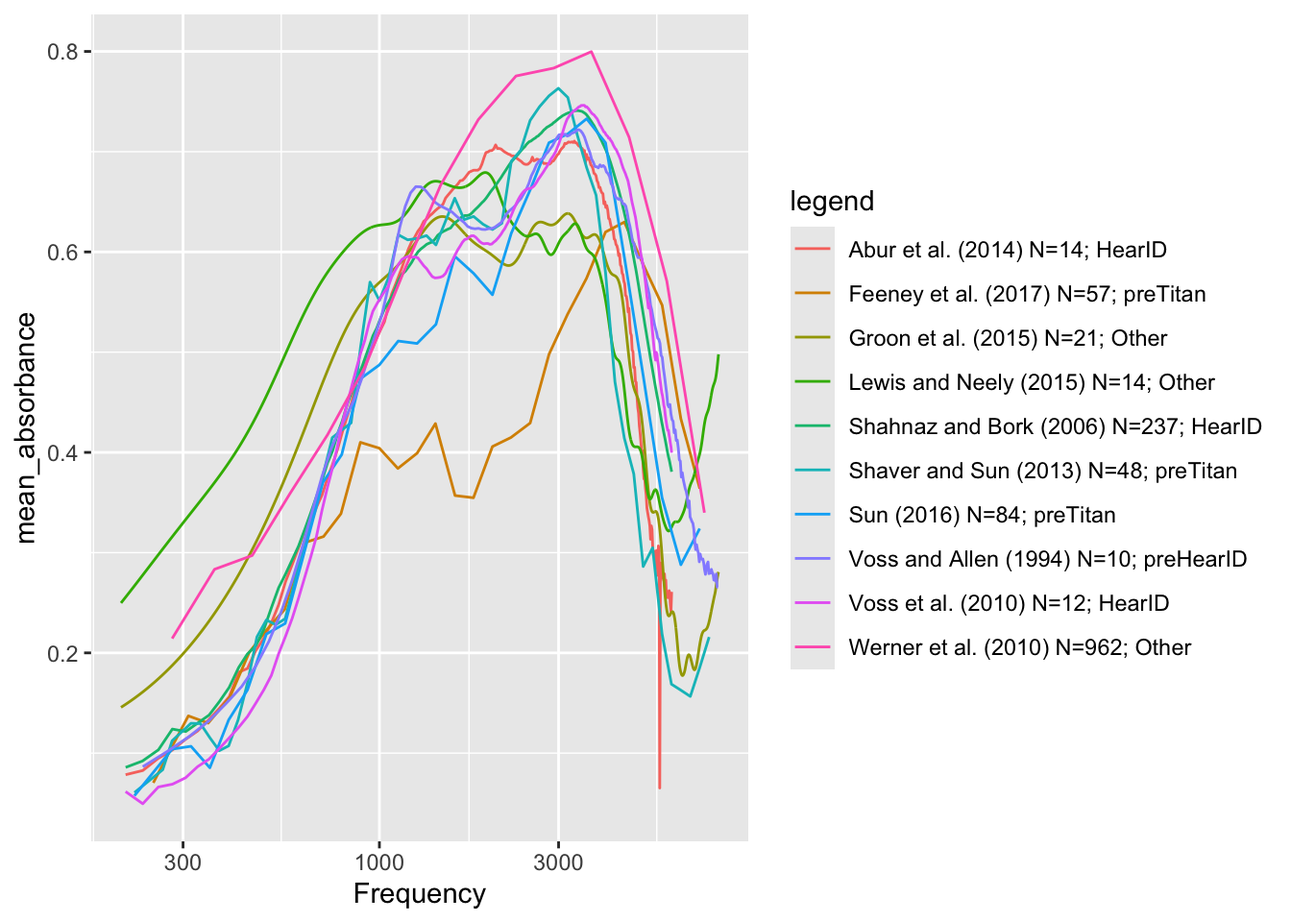
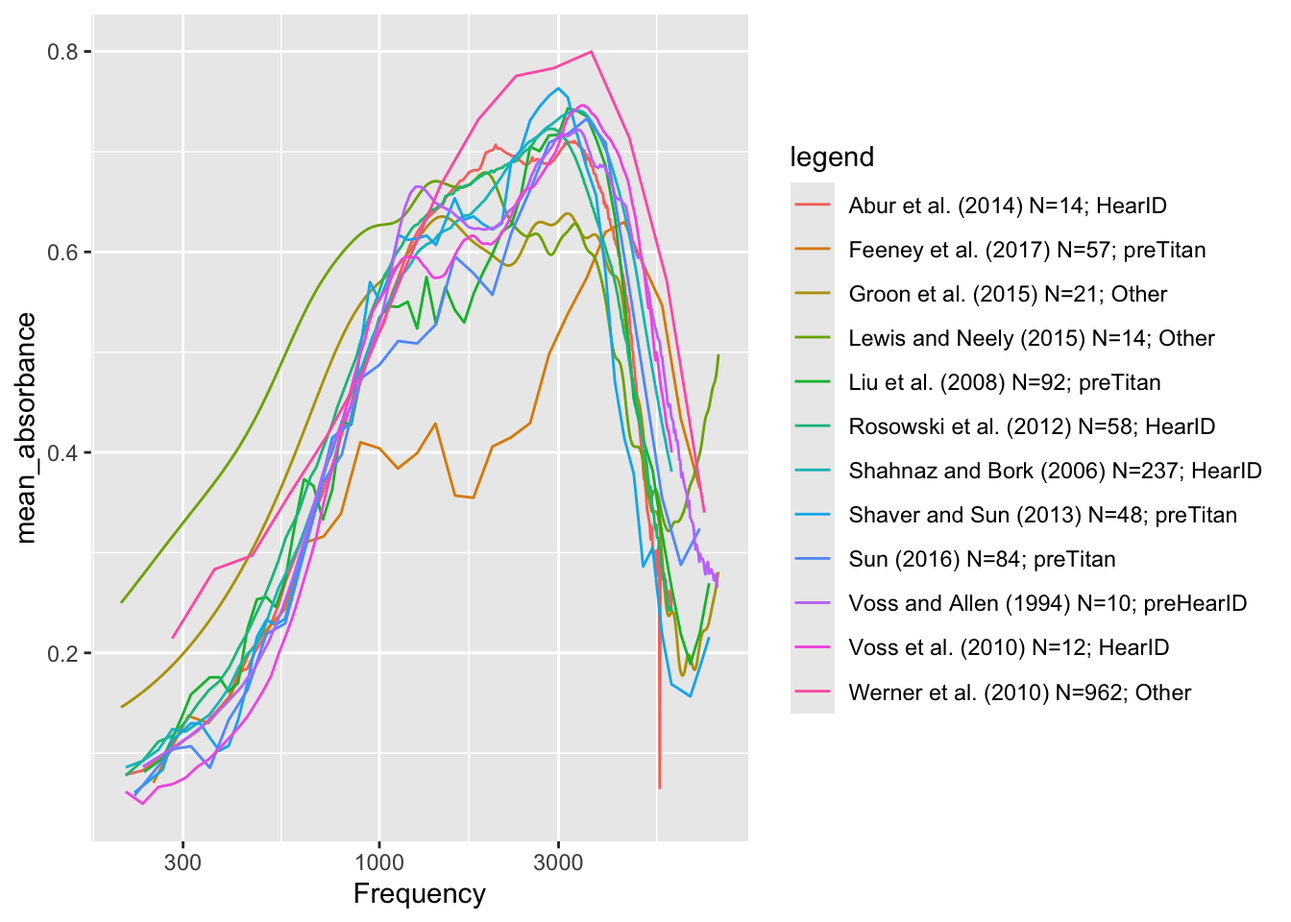
adding captions

diff --git a/docs/sql_audio.html b/docs/sql_audio.html
@@ -216,6 +216,7 @@ pre > code.sourceCode > span > a:first-child::before { text-decoration: underlin
 </header>
 
 
+<p>To replicate the table in Voss (2020), I will be pulling the measurements, PI info, and subject tables from the scidb.smith.edu database. After making sure I understand the data structure, I will turn the Frequency data to a log scale. I will then select and join the relevant data before preparing it for visualization. The above steps are in SQL, but I will use R’s ggplot package to produce the visualization.</p>
 <div class="cell">
 <div class="sourceCode cell-code" id="cb1"><pre class="sourceCode r code-with-copy"><code class="sourceCode r"><span id="cb1-1"><a href="#cb1-1" aria-hidden="true" tabindex="-1"></a><span class="fu">library</span>(RMariaDB)</span>
 <span id="cb1-2"><a href="#cb1-2" aria-hidden="true" tabindex="-1"></a><span class="fu">library</span>(ggplot2)</span>
@@ -972,19 +973,17 @@ Attaching package: 'dplyr'</code></pre>
 <span id="cb22-2"><a href="#cb22-2" aria-hidden="true" tabindex="-1"></a></span>
 <span id="cb22-3"><a href="#cb22-3" aria-hidden="true" tabindex="-1"></a><span class="kw">FROM</span> Measurements</span>
 <span id="cb22-4"><a href="#cb22-4" aria-hidden="true" tabindex="-1"></a></span>
-<span id="cb22-5"><a href="#cb22-5" aria-hidden="true" tabindex="-1"></a><span class="kw">WHERE</span> <span class="kw">Identifier</span> <span class="kw">IN</span> (<span class="ot">"Abur_2014"</span>, <span class="ot">"Feeney_2017"</span>, <span class="ot">"Groon_2015"</span> ,<span class="ot">"Lewis_2015"</span>, <span class="ot">"Liu_2008"</span></span>
+<span id="cb22-5"><a href="#cb22-5" aria-hidden="true" tabindex="-1"></a><span class="kw">WHERE</span> <span class="kw">Identifier</span> <span class="kw">IN</span> (<span class="ot">"Abur_2014"</span>, <span class="ot">"Feeney_2017"</span>, <span class="ot">"Groon_2015"</span> ,<span class="ot">"Lewis_2015"</span>, <span class="ot">"Liu_2008"</span>, <span class="ot">"Rosowski_2012"</span>, <span class="ot">"Shahnaz_2006"</span>, <span class="ot">"Shaver_2013"</span> , <span class="ot">"Sun_2016"</span>, <span class="ot">"Voss_1994"</span>, <span class="ot">"Voss_2010"</span>, <span class="ot">"Werner_2010"</span> ) <span class="kw">AND</span> Frequency <span class="op">&gt;</span> <span class="dv">200</span> <span class="kw">AND</span> Frequency <span class="op">&lt;</span> <span class="dv">8000</span></span>
 <span id="cb22-6"><a href="#cb22-6" aria-hidden="true" tabindex="-1"></a></span>
-<span id="cb22-7"><a href="#cb22-7" aria-hidden="true" tabindex="-1"></a><span class="ot">"Rosowski_2012"</span>, <span class="ot">"Shahnaz_2006"</span>, <span class="ot">"Shaver_2013"</span> , <span class="ot">"Sun_2016"</span>, <span class="ot">"Voss_1994"</span>, <span class="ot">"Voss_2010"</span>, <span class="ot">"Werner_2010"</span> ) <span class="kw">AND</span> Frequency <span class="op">&gt;</span> <span class="dv">200</span> <span class="kw">AND</span> Frequency <span class="op">&lt;</span> <span class="dv">8000</span></span>
-<span id="cb22-8"><a href="#cb22-8" aria-hidden="true" tabindex="-1"></a></span>
-<span id="cb22-9"><a href="#cb22-9" aria-hidden="true" tabindex="-1"></a><span class="kw">GROUP</span> <span class="kw">BY</span> <span class="kw">Identifier</span>, Frequency;</span></code><button title="Copy to Clipboard" class="code-copy-button"><i class="bi"></i></button></pre></div>
+<span id="cb22-7"><a href="#cb22-7" aria-hidden="true" tabindex="-1"></a><span class="kw">GROUP</span> <span class="kw">BY</span> <span class="kw">Identifier</span>, Frequency;</span></code><button title="Copy to Clipboard" class="code-copy-button"><i class="bi"></i></button></pre></div>
 </div>
 <div class="cell">
 <div class="sourceCode cell-code" id="cb23"><pre class="sourceCode r code-with-copy"><code class="sourceCode r"><span id="cb23-1"><a href="#cb23-1" aria-hidden="true" tabindex="-1"></a>graph <span class="sc">|&gt;</span></span>
-<span id="cb23-2"><a href="#cb23-2" aria-hidden="true" tabindex="-1"></a><span class="fu">ggplot</span>(<span class="fu">aes</span> (<span class="at">x=</span>Frequency, <span class="at">y =</span> mean_absorbance,</span>
-<span id="cb23-3"><a href="#cb23-3" aria-hidden="true" tabindex="-1"></a><span class="at">color =</span> Identifier,</span>
-<span id="cb23-4"><a href="#cb23-4" aria-hidden="true" tabindex="-1"></a><span class="at">group =</span> Identifier)) <span class="sc">+</span></span>
-<span id="cb23-5"><a href="#cb23-5" aria-hidden="true" tabindex="-1"></a><span class="fu">geom_line</span>()<span class="sc">+</span></span>
-<span id="cb23-6"><a href="#cb23-6" aria-hidden="true" tabindex="-1"></a><span class="fu">scale_x_log10</span>()</span></code><button title="Copy to Clipboard" class="code-copy-button"><i class="bi"></i></button></pre></div>
+<span id="cb23-2"><a href="#cb23-2" aria-hidden="true" tabindex="-1"></a>  <span class="fu">ggplot</span>(<span class="fu">aes</span> (<span class="at">x=</span>Frequency, <span class="at">y =</span> mean_absorbance,</span>
+<span id="cb23-3"><a href="#cb23-3" aria-hidden="true" tabindex="-1"></a>  <span class="at">color =</span> Identifier,</span>
+<span id="cb23-4"><a href="#cb23-4" aria-hidden="true" tabindex="-1"></a>  <span class="at">group =</span> Identifier)) <span class="sc">+</span></span>
+<span id="cb23-5"><a href="#cb23-5" aria-hidden="true" tabindex="-1"></a>  <span class="fu">geom_line</span>()<span class="sc">+</span></span>
+<span id="cb23-6"><a href="#cb23-6" aria-hidden="true" tabindex="-1"></a>  <span class="fu">scale_x_log10</span>()</span></code><button title="Copy to Clipboard" class="code-copy-button"><i class="bi"></i></button></pre></div>
 <div class="cell-output-display">
 <div>
 <figure class="figure">
@@ -995,18 +994,15 @@ Attaching package: 'dplyr'</code></pre>
 </div>
 <div class="cell">
 <div class="sourceCode cell-code" id="cb24"><pre class="sourceCode sql code-with-copy"><code class="sourceCode sql"><span id="cb24-1"><a href="#cb24-1" aria-hidden="true" tabindex="-1"></a><span class="kw">SELECT</span> p.<span class="kw">Identifier</span>, p.<span class="dt">Year</span>, p.AuthorsShortList,</span>
-<span id="cb24-2"><a href="#cb24-2" aria-hidden="true" tabindex="-1"></a></span>
-<span id="cb24-3"><a href="#cb24-3" aria-hidden="true" tabindex="-1"></a><span class="fu">COUNT</span>(<span class="kw">DISTINCT</span> SubjectNumber, Ear) <span class="kw">AS</span> ear_you</span>
-<span id="cb24-4"><a href="#cb24-4" aria-hidden="true" tabindex="-1"></a></span>
-<span id="cb24-5"><a href="#cb24-5" aria-hidden="true" tabindex="-1"></a><span class="kw">FROM</span> PI_Info <span class="kw">AS</span> p</span>
-<span id="cb24-6"><a href="#cb24-6" aria-hidden="true" tabindex="-1"></a></span>
-<span id="cb24-7"><a href="#cb24-7" aria-hidden="true" tabindex="-1"></a><span class="kw">LEFT</span> <span class="kw">JOIN</span> Measurements <span class="kw">AS</span> m <span class="kw">ON</span> m.<span class="kw">Identifier</span> <span class="op">=</span> p.<span class="kw">Identifier</span></span>
-<span id="cb24-8"><a href="#cb24-8" aria-hidden="true" tabindex="-1"></a></span>
-<span id="cb24-9"><a href="#cb24-9" aria-hidden="true" tabindex="-1"></a><span class="kw">WHERE</span> p.<span class="kw">Identifier</span> <span class="kw">IN</span> (<span class="ot">"Abur_2014"</span>, <span class="ot">"Feeney_2017"</span>, <span class="ot">"Groon_2015"</span> ,<span class="ot">"Lewis_2015"</span>, <span class="ot">"Liu_2008"</span></span>
-<span id="cb24-10"><a href="#cb24-10" aria-hidden="true" tabindex="-1"></a></span>
-<span id="cb24-11"><a href="#cb24-11" aria-hidden="true" tabindex="-1"></a><span class="ot">"Rosowski_2012"</span>, <span class="ot">"Shahnaz_2006"</span>, <span class="ot">"Shaver_2013"</span> , <span class="ot">"Sun_2016"</span>, <span class="ot">"Voss_1994"</span>, <span class="ot">"Voss_2010"</span>, <span class="ot">"Werner_2010"</span> ) <span class="kw">AND</span> Frequency <span class="op">&gt;</span> <span class="dv">200</span> <span class="kw">AND</span> Frequency <span class="op">&lt;</span> <span class="dv">8000</span></span>
-<span id="cb24-12"><a href="#cb24-12" aria-hidden="true" tabindex="-1"></a></span>
-<span id="cb24-13"><a href="#cb24-13" aria-hidden="true" tabindex="-1"></a><span class="kw">GROUP</span> <span class="kw">BY</span> <span class="kw">Identifier</span>, Instrument;</span></code><button title="Copy to Clipboard" class="code-copy-button"><i class="bi"></i></button></pre></div>
+<span id="cb24-2"><a href="#cb24-2" aria-hidden="true" tabindex="-1"></a><span class="fu">COUNT</span>(<span class="kw">DISTINCT</span> SubjectNumber, Ear) <span class="kw">AS</span> ear_you</span>
+<span id="cb24-3"><a href="#cb24-3" aria-hidden="true" tabindex="-1"></a></span>
+<span id="cb24-4"><a href="#cb24-4" aria-hidden="true" tabindex="-1"></a><span class="kw">FROM</span> PI_Info <span class="kw">AS</span> p</span>
+<span id="cb24-5"><a href="#cb24-5" aria-hidden="true" tabindex="-1"></a></span>
+<span id="cb24-6"><a href="#cb24-6" aria-hidden="true" tabindex="-1"></a><span class="kw">LEFT</span> <span class="kw">JOIN</span> Measurements <span class="kw">AS</span> m <span class="kw">ON</span> m.<span class="kw">Identifier</span> <span class="op">=</span> p.<span class="kw">Identifier</span></span>
+<span id="cb24-7"><a href="#cb24-7" aria-hidden="true" tabindex="-1"></a></span>
+<span id="cb24-8"><a href="#cb24-8" aria-hidden="true" tabindex="-1"></a><span class="kw">WHERE</span> p.<span class="kw">Identifier</span> <span class="kw">IN</span> (<span class="ot">"Abur_2014"</span>, <span class="ot">"Feeney_2017"</span>, <span class="ot">"Groon_2015"</span> ,<span class="ot">"Lewis_2015"</span>, <span class="ot">"Liu_2008"</span>, <span class="ot">"Rosowski_2012"</span>, <span class="ot">"Shahnaz_2006"</span>, <span class="ot">"Shaver_2013"</span> , <span class="ot">"Sun_2016"</span>, <span class="ot">"Voss_1994"</span>, <span class="ot">"Voss_2010"</span>, <span class="ot">"Werner_2010"</span> ) <span class="kw">AND</span> Frequency <span class="op">&gt;</span> <span class="dv">200</span> <span class="kw">AND</span> Frequency <span class="op">&lt;</span> <span class="dv">8000</span></span>
+<span id="cb24-9"><a href="#cb24-9" aria-hidden="true" tabindex="-1"></a></span>
+<span id="cb24-10"><a href="#cb24-10" aria-hidden="true" tabindex="-1"></a><span class="kw">GROUP</span> <span class="kw">BY</span> <span class="kw">Identifier</span>, Instrument;</span></code><button title="Copy to Clipboard" class="code-copy-button"><i class="bi"></i></button></pre></div>
 <div class="cell-output-display">
 <table class="caption-top table table-sm table-striped small">
 <caption>Displaying records 1 - 10</caption>
@@ -1044,6 +1040,18 @@ Attaching package: 'dplyr'</code></pre>
 <td style="text-align: right;">14</td>
 </tr>
 <tr class="odd">
+<td style="text-align: left;">Liu_2008</td>
+<td style="text-align: right;">2008</td>
+<td style="text-align: left;">Liu et al.</td>
+<td style="text-align: right;">92</td>
+</tr>
+<tr class="even">
+<td style="text-align: left;">Rosowski_2012</td>
+<td style="text-align: right;">2012</td>
+<td style="text-align: left;">Rosowski et al.</td>
+<td style="text-align: right;">58</td>
+</tr>
+<tr class="odd">
 <td style="text-align: left;">Shahnaz_2006</td>
 <td style="text-align: right;">2006</td>
 <td style="text-align: left;">Shahnaz and Bork</td>
@@ -1067,18 +1075,6 @@ Attaching package: 'dplyr'</code></pre>
 <td style="text-align: left;">Voss and Allen</td>
 <td style="text-align: right;">10</td>
 </tr>
-<tr class="odd">
-<td style="text-align: left;">Voss_2010</td>
-<td style="text-align: right;">2010</td>
-<td style="text-align: left;">Voss et al.</td>
-<td style="text-align: right;">12</td>
-</tr>
-<tr class="even">
-<td style="text-align: left;">Werner_2010</td>
-<td style="text-align: right;">2010</td>
-<td style="text-align: left;">Werner et al.</td>
-<td style="text-align: right;">962</td>
-</tr>
 </tbody>
 </table>
 </div>
@@ -1093,16 +1089,14 @@ Attaching package: 'dplyr'</code></pre>
 <span id="cb25-7"><a href="#cb25-7" aria-hidden="true" tabindex="-1"></a></span>
 <span id="cb25-8"><a href="#cb25-8" aria-hidden="true" tabindex="-1"></a><span class="kw">LEFT</span> <span class="kw">JOIN</span> Measurements <span class="kw">AS</span> m <span class="kw">ON</span> m.<span class="kw">Identifier</span> <span class="op">=</span> p.<span class="kw">Identifier</span></span>
 <span id="cb25-9"><a href="#cb25-9" aria-hidden="true" tabindex="-1"></a></span>
-<span id="cb25-10"><a href="#cb25-10" aria-hidden="true" tabindex="-1"></a><span class="kw">WHERE</span> p.<span class="kw">Identifier</span> <span class="kw">IN</span> (<span class="ot">"Abur_2014"</span>, <span class="ot">"Feeney_2017"</span>, <span class="ot">"Groon_2015"</span> ,<span class="ot">"Lewis_2015"</span>, <span class="ot">"Liu_2008"</span></span>
+<span id="cb25-10"><a href="#cb25-10" aria-hidden="true" tabindex="-1"></a><span class="kw">WHERE</span> p.<span class="kw">Identifier</span> <span class="kw">IN</span> (<span class="ot">"Abur_2014"</span>, <span class="ot">"Feeney_2017"</span>, <span class="ot">"Groon_2015"</span> ,<span class="ot">"Lewis_2015"</span>, <span class="ot">"Liu_2008"</span>, <span class="ot">"Rosowski_2012"</span>, <span class="ot">"Shahnaz_2006"</span>, <span class="ot">"Shaver_2013"</span> , <span class="ot">"Sun_2016"</span>, <span class="ot">"Voss_1994"</span>, <span class="ot">"Voss_2010"</span>, <span class="ot">"Werner_2010"</span> ) <span class="kw">AND</span> Frequency <span class="op">&gt;</span> <span class="dv">200</span> <span class="kw">AND</span> Frequency <span class="op">&lt;</span> <span class="dv">8000</span></span>
 <span id="cb25-11"><a href="#cb25-11" aria-hidden="true" tabindex="-1"></a></span>
-<span id="cb25-12"><a href="#cb25-12" aria-hidden="true" tabindex="-1"></a><span class="ot">"Rosowski_2012"</span>, <span class="ot">"Shahnaz_2006"</span>, <span class="ot">"Shaver_2013"</span> , <span class="ot">"Sun_2016"</span>, <span class="ot">"Voss_1994"</span>, <span class="ot">"Voss_2010"</span>, <span class="ot">"Werner_2010"</span> ) <span class="kw">AND</span> Frequency <span class="op">&gt;</span> <span class="dv">200</span> <span class="kw">AND</span> Frequency <span class="op">&lt;</span> <span class="dv">8000</span></span>
-<span id="cb25-13"><a href="#cb25-13" aria-hidden="true" tabindex="-1"></a></span>
-<span id="cb25-14"><a href="#cb25-14" aria-hidden="true" tabindex="-1"></a><span class="kw">GROUP</span> <span class="kw">BY</span> <span class="kw">Identifier</span>, Instrument;</span></code><button title="Copy to Clipboard" class="code-copy-button"><i class="bi"></i></button></pre></div>
+<span id="cb25-12"><a href="#cb25-12" aria-hidden="true" tabindex="-1"></a><span class="kw">GROUP</span> <span class="kw">BY</span> <span class="kw">Identifier</span>, Instrument;</span></code><button title="Copy to Clipboard" class="code-copy-button"><i class="bi"></i></button></pre></div>
 <div class="cell-output-display">
 <table class="caption-top table table-sm table-striped small">
 <caption>Displaying records 1 - 10</caption>
 <colgroup>
-<col style="width: 16%">
+<col style="width: 17%">
 <col style="width: 6%">
 <col style="width: 21%">
 <col style="width: 6%">
@@ -1147,6 +1141,20 @@ Attaching package: 'dplyr'</code></pre>
 <td style="text-align: left;">Lewis and Neely (2015) N=14; Other</td>
 </tr>
 <tr class="odd">
+<td style="text-align: left;">Liu_2008</td>
+<td style="text-align: right;">2008</td>
+<td style="text-align: left;">Liu et al.</td>
+<td style="text-align: right;">92</td>
+<td style="text-align: left;">Liu et al.&nbsp;(2008) N=92; preTitan</td>
+</tr>
+<tr class="even">
+<td style="text-align: left;">Rosowski_2012</td>
+<td style="text-align: right;">2012</td>
+<td style="text-align: left;">Rosowski et al.</td>
+<td style="text-align: right;">58</td>
+<td style="text-align: left;">Rosowski et al.&nbsp;(2012) N=58; HearID</td>
+</tr>
+<tr class="odd">
 <td style="text-align: left;">Shahnaz_2006</td>
 <td style="text-align: right;">2006</td>
 <td style="text-align: left;">Shahnaz and Bork</td>
@@ -1174,50 +1182,32 @@ Attaching package: 'dplyr'</code></pre>
 <td style="text-align: right;">10</td>
 <td style="text-align: left;">Voss and Allen (1994) N=10; preHearID</td>
 </tr>
-<tr class="odd">
-<td style="text-align: left;">Voss_2010</td>
-<td style="text-align: right;">2010</td>
-<td style="text-align: left;">Voss et al.</td>
-<td style="text-align: right;">12</td>
-<td style="text-align: left;">Voss et al.&nbsp;(2010) N=12; HearID</td>
-</tr>
-<tr class="even">
-<td style="text-align: left;">Werner_2010</td>
-<td style="text-align: right;">2010</td>
-<td style="text-align: left;">Werner et al.</td>
-<td style="text-align: right;">962</td>
-<td style="text-align: left;">Werner et al.&nbsp;(2010) N=962; Other</td>
-</tr>
 </tbody>
 </table>
 </div>
 </div>
 <div class="cell" data-output.var="graph2">
 <div class="sourceCode cell-code" id="cb26"><pre class="sourceCode sql code-with-copy"><code class="sourceCode sql"><span id="cb26-1"><a href="#cb26-1" aria-hidden="true" tabindex="-1"></a><span class="kw">SELECT</span> p.<span class="kw">Identifier</span>, p.<span class="dt">Year</span>, p.AuthorsShortList, Frequency,</span>
-<span id="cb26-2"><a href="#cb26-2" aria-hidden="true" tabindex="-1"></a></span>
-<span id="cb26-3"><a href="#cb26-3" aria-hidden="true" tabindex="-1"></a>LOG10(Frequency) <span class="kw">AS</span> log_frequency, <span class="fu">AVG</span>(Absorbance) <span class="kw">AS</span> mean_absorbance,</span>
+<span id="cb26-2"><a href="#cb26-2" aria-hidden="true" tabindex="-1"></a>LOG10(Frequency) <span class="kw">AS</span> log_frequency, <span class="fu">AVG</span>(Absorbance) <span class="kw">AS</span> mean_absorbance,</span>
+<span id="cb26-3"><a href="#cb26-3" aria-hidden="true" tabindex="-1"></a><span class="fu">COUNT</span>(<span class="kw">DISTINCT</span> SubjectNumber, Ear) <span class="kw">AS</span> ear_u,</span>
 <span id="cb26-4"><a href="#cb26-4" aria-hidden="true" tabindex="-1"></a></span>
-<span id="cb26-5"><a href="#cb26-5" aria-hidden="true" tabindex="-1"></a><span class="fu">COUNT</span>(<span class="kw">DISTINCT</span> SubjectNumber, Ear) <span class="kw">AS</span> ear_u,</span>
+<span id="cb26-5"><a href="#cb26-5" aria-hidden="true" tabindex="-1"></a><span class="fu">CONCAT</span>(AuthorsShortList, <span class="ot">" ("</span> , <span class="dt">year</span>, <span class="ot">") "</span>, <span class="ot">"N="</span>, <span class="fu">COUNT</span>(<span class="kw">DISTINCT</span> SubjectNumber, Ear), <span class="ot">"; "</span>, Instrument) <span class="kw">AS</span> legend</span>
 <span id="cb26-6"><a href="#cb26-6" aria-hidden="true" tabindex="-1"></a></span>
-<span id="cb26-7"><a href="#cb26-7" aria-hidden="true" tabindex="-1"></a><span class="fu">CONCAT</span>(AuthorsShortList, <span class="ot">" ("</span> , <span class="dt">year</span>, <span class="ot">") "</span>, <span class="ot">"N="</span>, <span class="fu">COUNT</span>(<span class="kw">DISTINCT</span> SubjectNumber, Ear), <span class="ot">"; "</span>, Instrument) <span class="kw">AS</span> legend</span>
+<span id="cb26-7"><a href="#cb26-7" aria-hidden="true" tabindex="-1"></a><span class="kw">FROM</span> PI_Info <span class="kw">AS</span> p</span>
 <span id="cb26-8"><a href="#cb26-8" aria-hidden="true" tabindex="-1"></a></span>
-<span id="cb26-9"><a href="#cb26-9" aria-hidden="true" tabindex="-1"></a><span class="kw">FROM</span> PI_Info <span class="kw">AS</span> p</span>
+<span id="cb26-9"><a href="#cb26-9" aria-hidden="true" tabindex="-1"></a><span class="kw">LEFT</span> <span class="kw">JOIN</span> Measurements <span class="kw">AS</span> m <span class="kw">ON</span> m.<span class="kw">Identifier</span> <span class="op">=</span> p.<span class="kw">Identifier</span></span>
 <span id="cb26-10"><a href="#cb26-10" aria-hidden="true" tabindex="-1"></a></span>
-<span id="cb26-11"><a href="#cb26-11" aria-hidden="true" tabindex="-1"></a><span class="kw">LEFT</span> <span class="kw">JOIN</span> Measurements <span class="kw">AS</span> m <span class="kw">ON</span> m.<span class="kw">Identifier</span> <span class="op">=</span> p.<span class="kw">Identifier</span></span>
+<span id="cb26-11"><a href="#cb26-11" aria-hidden="true" tabindex="-1"></a><span class="kw">WHERE</span> p.<span class="kw">Identifier</span> <span class="kw">IN</span> (<span class="ot">"Abur_2014"</span>, <span class="ot">"Feeney_2017"</span>, <span class="ot">"Groon_2015"</span> ,<span class="ot">"Lewis_2015"</span>, <span class="ot">"Liu_2008"</span>, <span class="ot">"Rosowski_2012"</span>, <span class="ot">"Shahnaz_2006"</span>, <span class="ot">"Shaver_2013"</span> , <span class="ot">"Sun_2016"</span>, <span class="ot">"Voss_1994"</span>, <span class="ot">"Voss_2010"</span>, <span class="ot">"Werner_2010"</span> ) <span class="kw">AND</span> Frequency <span class="op">&gt;</span> <span class="dv">200</span> <span class="kw">AND</span> Frequency <span class="op">&lt;</span> <span class="dv">8000</span></span>
 <span id="cb26-12"><a href="#cb26-12" aria-hidden="true" tabindex="-1"></a></span>
-<span id="cb26-13"><a href="#cb26-13" aria-hidden="true" tabindex="-1"></a><span class="kw">WHERE</span> p.<span class="kw">Identifier</span> <span class="kw">IN</span> (<span class="ot">"Abur_2014"</span>, <span class="ot">"Feeney_2017"</span>, <span class="ot">"Groon_2015"</span> ,<span class="ot">"Lewis_2015"</span>, <span class="ot">"Liu_2008"</span></span>
-<span id="cb26-14"><a href="#cb26-14" aria-hidden="true" tabindex="-1"></a></span>
-<span id="cb26-15"><a href="#cb26-15" aria-hidden="true" tabindex="-1"></a><span class="ot">"Rosowski_2012"</span>, <span class="ot">"Shahnaz_2006"</span>, <span class="ot">"Shaver_2013"</span> , <span class="ot">"Sun_2016"</span>, <span class="ot">"Voss_1994"</span>, <span class="ot">"Voss_2010"</span>, <span class="ot">"Werner_2010"</span> ) <span class="kw">AND</span> Frequency <span class="op">&gt;</span> <span class="dv">200</span> <span class="kw">AND</span> Frequency <span class="op">&lt;</span> <span class="dv">8000</span></span>
-<span id="cb26-16"><a href="#cb26-16" aria-hidden="true" tabindex="-1"></a></span>
-<span id="cb26-17"><a href="#cb26-17" aria-hidden="true" tabindex="-1"></a><span class="kw">GROUP</span> <span class="kw">BY</span> <span class="kw">Identifier</span>, Instrument, Frequency;</span></code><button title="Copy to Clipboard" class="code-copy-button"><i class="bi"></i></button></pre></div>
+<span id="cb26-13"><a href="#cb26-13" aria-hidden="true" tabindex="-1"></a><span class="kw">GROUP</span> <span class="kw">BY</span> <span class="kw">Identifier</span>, Instrument, Frequency;</span></code><button title="Copy to Clipboard" class="code-copy-button"><i class="bi"></i></button></pre></div>
 </div>
 <div class="cell">
 <div class="sourceCode cell-code" id="cb27"><pre class="sourceCode r code-with-copy"><code class="sourceCode r"><span id="cb27-1"><a href="#cb27-1" aria-hidden="true" tabindex="-1"></a>graph2 <span class="sc">|&gt;</span></span>
-<span id="cb27-2"><a href="#cb27-2" aria-hidden="true" tabindex="-1"></a><span class="fu">ggplot</span>(<span class="fu">aes</span> (<span class="at">x=</span>Frequency, <span class="at">y =</span> mean_absorbance,</span>
-<span id="cb27-3"><a href="#cb27-3" aria-hidden="true" tabindex="-1"></a><span class="at">color =</span> legend,</span>
-<span id="cb27-4"><a href="#cb27-4" aria-hidden="true" tabindex="-1"></a><span class="at">group =</span> legend)) <span class="sc">+</span></span>
-<span id="cb27-5"><a href="#cb27-5" aria-hidden="true" tabindex="-1"></a><span class="fu">geom_line</span>()<span class="sc">+</span></span>
-<span id="cb27-6"><a href="#cb27-6" aria-hidden="true" tabindex="-1"></a><span class="fu">scale_x_log10</span>()</span></code><button title="Copy to Clipboard" class="code-copy-button"><i class="bi"></i></button></pre></div>
+<span id="cb27-2"><a href="#cb27-2" aria-hidden="true" tabindex="-1"></a>  <span class="fu">ggplot</span>(<span class="fu">aes</span> (<span class="at">x=</span>Frequency, <span class="at">y =</span> mean_absorbance,</span>
+<span id="cb27-3"><a href="#cb27-3" aria-hidden="true" tabindex="-1"></a>  <span class="at">color =</span> legend,</span>
+<span id="cb27-4"><a href="#cb27-4" aria-hidden="true" tabindex="-1"></a>  <span class="at">group =</span> legend)) <span class="sc">+</span></span>
+<span id="cb27-5"><a href="#cb27-5" aria-hidden="true" tabindex="-1"></a>  <span class="fu">geom_line</span>()<span class="sc">+</span></span>
+<span id="cb27-6"><a href="#cb27-6" aria-hidden="true" tabindex="-1"></a>  <span class="fu">scale_x_log10</span>()</span></code><button title="Copy to Clipboard" class="code-copy-button"><i class="bi"></i></button></pre></div>
 <div class="cell-output-display">
 <div>
 <figure class="figure">
@@ -1396,6 +1386,78 @@ Attaching package: 'dplyr'</code></pre>
 </table>
 </div>
 </div>
+<div class="cell" data-output.var="q2_graph">
+<div class="sourceCode cell-code" id="cb29"><pre class="sourceCode sql code-with-copy"><code class="sourceCode sql"><span id="cb29-1"><a href="#cb29-1" aria-hidden="true" tabindex="-1"></a><span class="kw">SELECT</span> Frequency, Race,</span>
+<span id="cb29-2"><a href="#cb29-2" aria-hidden="true" tabindex="-1"></a>    <span class="fu">AVG</span>(Absorbance) <span class="kw">AS</span> ave_absorbance</span>
+<span id="cb29-3"><a href="#cb29-3" aria-hidden="true" tabindex="-1"></a><span class="kw">FROM</span> Subjects <span class="kw">AS</span> s</span>
+<span id="cb29-4"><a href="#cb29-4" aria-hidden="true" tabindex="-1"></a><span class="kw">RIGHT</span> <span class="kw">JOIN</span> Measurements <span class="kw">AS</span> m <span class="kw">ON</span> m.<span class="kw">Identifier</span> <span class="op">=</span> s.<span class="kw">Identifier</span> </span>
+<span id="cb29-5"><a href="#cb29-5" aria-hidden="true" tabindex="-1"></a><span class="kw">WHERE</span> m.<span class="kw">Identifier</span> <span class="op">=</span> <span class="ot">"Rosowski_2012"</span> <span class="kw">AND</span> Frequency <span class="op">&gt;</span> <span class="dv">200</span> <span class="kw">AND</span> Frequency <span class="op">&lt;</span> <span class="dv">8000</span></span>
+<span id="cb29-6"><a href="#cb29-6" aria-hidden="true" tabindex="-1"></a><span class="kw">GROUP</span> <span class="kw">BY</span> Race, Frequency</span></code><button title="Copy to Clipboard" class="code-copy-button"><i class="bi"></i></button></pre></div>
+</div>
+<div class="cell">
+<div class="sourceCode cell-code" id="cb30"><pre class="sourceCode r code-with-copy"><code class="sourceCode r"><span id="cb30-1"><a href="#cb30-1" aria-hidden="true" tabindex="-1"></a><span class="fu">head</span>(q2_graph)</span></code><button title="Copy to Clipboard" class="code-copy-button"><i class="bi"></i></button></pre></div>
+<div class="cell-output cell-output-stdout">
+<pre><code>  Frequency      Race ave_absorbance
+1  210.9375 Caucasian     0.07766760
+2  210.9375 Black         0.07766760
+3  210.9375 Chinese       0.07766760
+4  210.9375 Asian         0.07766760
+5  234.3750 Caucasian     0.09241395
+6  234.3750 Black         0.09241395</code></pre>
+</div>
+</div>
+<div class="cell">
+<div class="sourceCode cell-code" id="cb32"><pre class="sourceCode sql code-with-copy"><code class="sourceCode sql"><span id="cb32-1"><a href="#cb32-1" aria-hidden="true" tabindex="-1"></a><span class="kw">SELECT</span> race, <span class="fu">COUNT</span>(<span class="op">*</span>)</span>
+<span id="cb32-2"><a href="#cb32-2" aria-hidden="true" tabindex="-1"></a><span class="kw">FROM</span> Subjects <span class="kw">WHERE</span> <span class="kw">Identifier</span> <span class="op">=</span> <span class="ot">"Rosowski_2012"</span></span>
+<span id="cb32-3"><a href="#cb32-3" aria-hidden="true" tabindex="-1"></a><span class="kw">GROUP</span> <span class="kw">BY</span> Race</span></code><button title="Copy to Clipboard" class="code-copy-button"><i class="bi"></i></button></pre></div>
+<div class="cell-output-display">
+<table class="caption-top table table-sm table-striped small">
+<caption>4 records</caption>
+<thead>
+<tr class="header">
+<th style="text-align: left;">race</th>
+<th style="text-align: right;">COUNT(*)</th>
+</tr>
+</thead>
+<tbody>
+<tr class="odd">
+<td style="text-align: left;">Caucasian</td>
+<td style="text-align: right;">20</td>
+</tr>
+<tr class="even">
+<td style="text-align: left;">Black</td>
+<td style="text-align: right;">6</td>
+</tr>
+<tr class="odd">
+<td style="text-align: left;">Chinese</td>
+<td style="text-align: right;">2</td>
+</tr>
+<tr class="even">
+<td style="text-align: left;">Asian</td>
+<td style="text-align: right;">1</td>
+</tr>
+</tbody>
+</table>
+</div>
+</div>
+<div class="cell">
+<div class="sourceCode cell-code" id="cb33"><pre class="sourceCode r code-with-copy"><code class="sourceCode r"><span id="cb33-1"><a href="#cb33-1" aria-hidden="true" tabindex="-1"></a>q2_graph <span class="sc">|&gt;</span></span>
+<span id="cb33-2"><a href="#cb33-2" aria-hidden="true" tabindex="-1"></a>  <span class="fu">ggplot</span>(<span class="fu">aes</span> (<span class="at">x =</span> Frequency, <span class="at">y =</span> ave_absorbance,</span>
+<span id="cb33-3"><a href="#cb33-3" aria-hidden="true" tabindex="-1"></a>              <span class="at">color =</span> Race,</span>
+<span id="cb33-4"><a href="#cb33-4" aria-hidden="true" tabindex="-1"></a>              <span class="at">group =</span> Race)) <span class="sc">+</span></span>
+<span id="cb33-5"><a href="#cb33-5" aria-hidden="true" tabindex="-1"></a>  <span class="fu">geom_line</span>() <span class="sc">+</span></span>
+<span id="cb33-6"><a href="#cb33-6" aria-hidden="true" tabindex="-1"></a>  <span class="fu">facet_wrap</span>(<span class="sc">~</span> Race) <span class="sc">+</span> </span>
+<span id="cb33-7"><a href="#cb33-7" aria-hidden="true" tabindex="-1"></a>  <span class="fu">scale_x_log10</span>()</span></code><button title="Copy to Clipboard" class="code-copy-button"><i class="bi"></i></button></pre></div>
+<div class="cell-output-display">
+<div>
+<figure class="figure">
+<p><img src="sql_audio_files/figure-html/unnamed-chunk-17-1.png" class="img-fluid figure-img" width="672"></p>
+</figure>
+</div>
+</div>
+</div>
+<p>*Because data was identical across races, I used facet_wrap to isolate the graphs by Race. Interestingly, Rosowski (2012) separated “Chinese” from “Asian” and had very little racial diversity overall. The graphs convey that after a strong positive correlation, average absorbance rapidly dropped after Frequency of 3000.</p>
+<p>For Question 1, it was important that I aggregate data for specific studies with Identifier and that I filter within the frequency range of 80000 &gt; Frequency &gt; 200. For Question 2,I wanted to explore the race variable. After determiniing that Rosowski (2012) enrolled multiple race groups, I joined the relevant variables using the “Rosowksi_2021” Identifier. I then graphed the data, grouping by race.</p>
 
 
 
